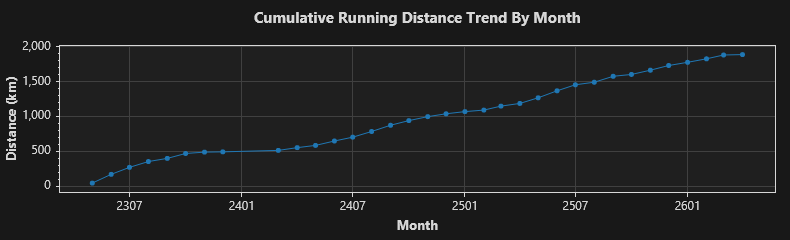
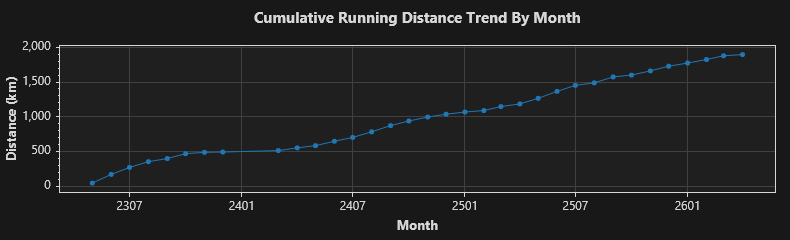
2026/4/7 跑步 6.05 公里

diff --git a/trend.md b/trend.md
@@ -1,4 +1,4 @@
-### Total: 322 days, 1885.28 km.
+### Total: 324 days, 1896.37 km.
 
 
 ![Monthly](https://github.com/prime167/MyRunningLog/blob/main/data/CumulativeTrendByMonth.png)
